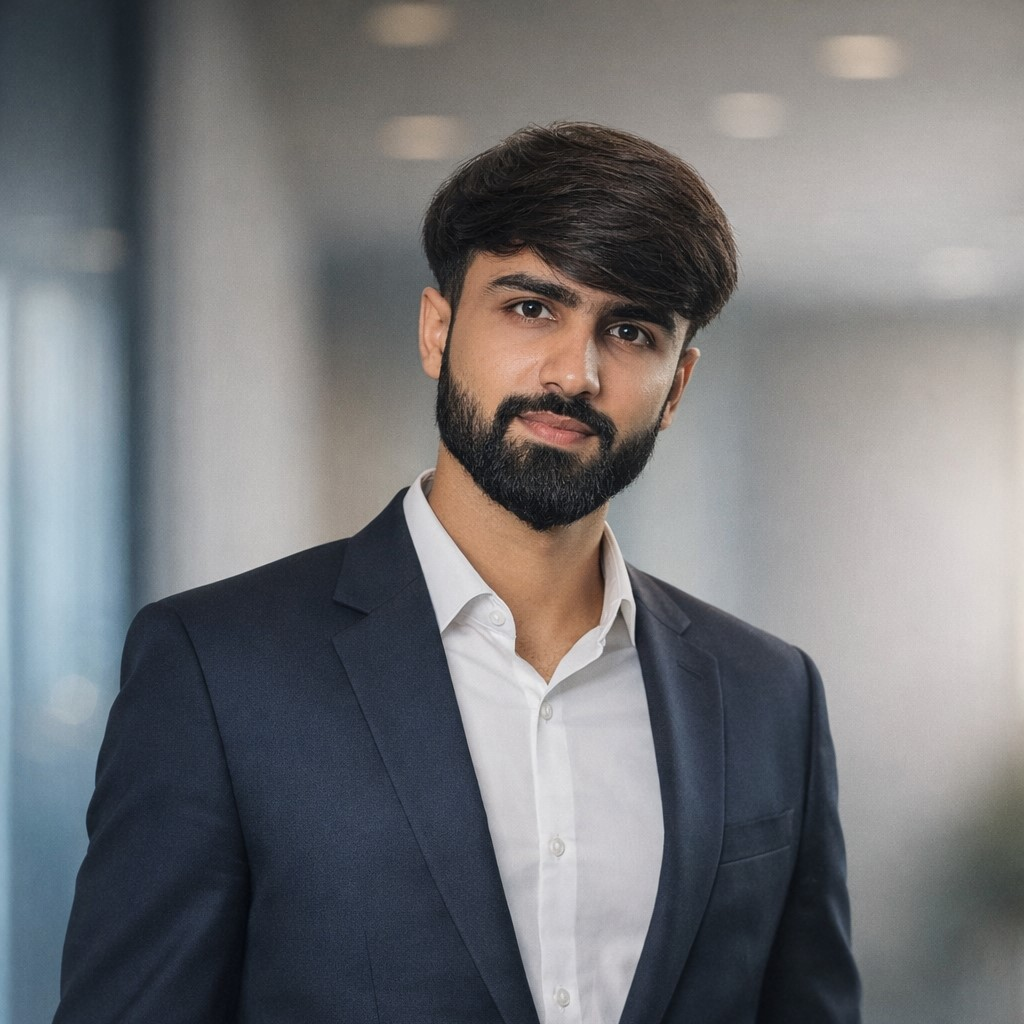
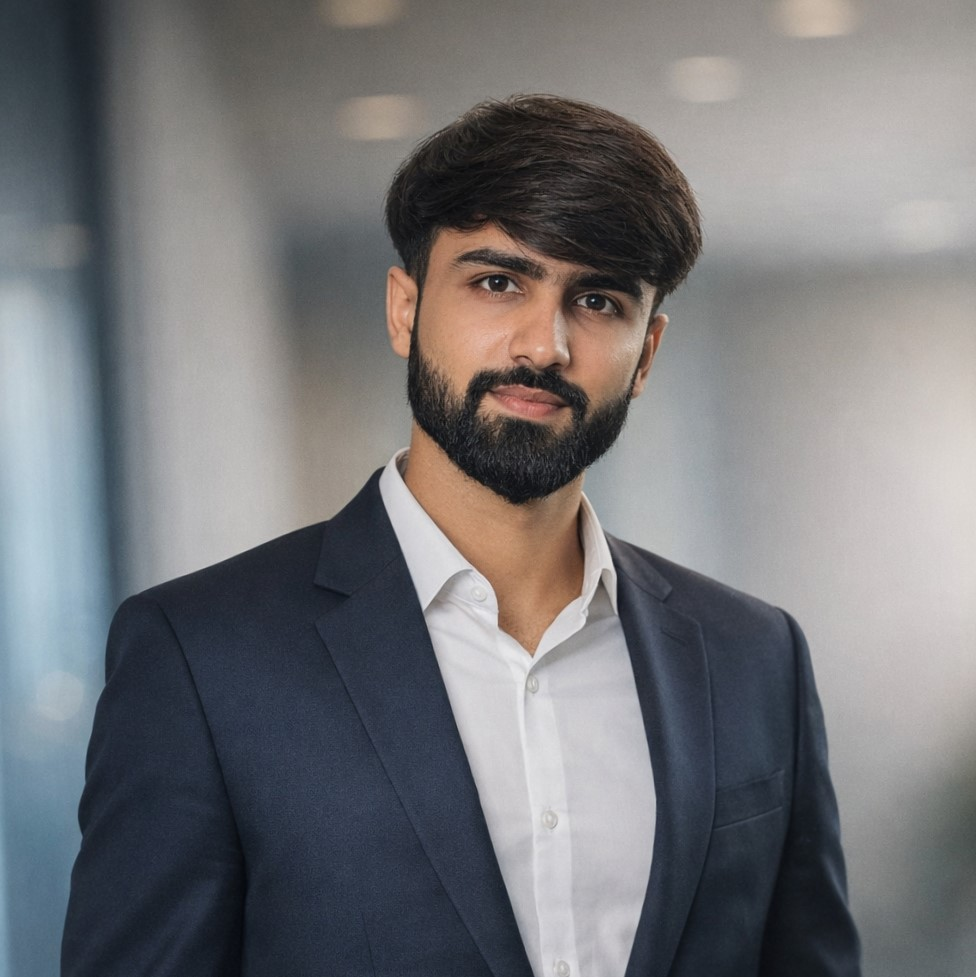
Added app links and updated information

diff --git a/src/pages/ProjectDetail.jsx b/src/pages/ProjectDetail.jsx
@@ -7,7 +7,8 @@ const ProjectDetail = () => {
   const { slug } = useParams()
   const navigate = useNavigate()
   const project = projects.find(p => p.slug === slug)
-
+  const saved = localStorage.getItem('darkMode')
+  const isDarkMode = saved ? JSON.parse(saved) : false
   const [isOpen, setIsOpen] = useState(false)
   const [currentIndex, setCurrentIndex] = useState(0)
 
@@ -242,6 +243,62 @@ const ProjectDetail = () => {
             ))}
           </ul>
         </motion.section>
+
+        {/* App Store Links */}
+        {(project.playStore || project.appStore) && (
+          <motion.section
+            initial={{ opacity: 0, y: 20 }}
+            animate={{ opacity: 1, y: 0 }}
+            transition={{ duration: 0.6, delay: 0.55 }}
+            className="mb-12"
+          >
+            <h3 className="heading-3 mb-4 text-primary-600 dark:text-primary-400">Download App</h3>
+
+            <div className="flex gap-4">
+              {/* Play Store */}
+              {project.playStore && (
+                <a
+                  href={project.playStore}
+                  target="_blank"
+                  rel="noopener noreferrer"
+                  className="flex items-center gap-3 px-5 py-3 rounded-xl bg-gray-100 dark:bg-gray-800 hover:scale-105 transition-transform shadow-md"
+                >
+                  <img
+                    src={
+                      isDarkMode
+                        ? '/Portfolio/android-icon-white.png'
+                        : '/Portfolio/android-icon.png'
+                    }
+                    alt="Android App"
+                    className="w-5 h-5 object-contain"
+                  />
+
+                  <span className="font-medium">Play Store</span>
+                </a>
+              )}
+
+              {/* App Store */}
+              {project.appStore && (
+                <a
+                  href={project.appStore}
+                  target="_blank"
+                  rel="noopener noreferrer"
+                  className="flex items-center gap-3 px-5 py-3 rounded-xl bg-gray-100 dark:bg-gray-800 hover:scale-105 transition-transform shadow-md"
+                >
+                  <img
+                    src={
+                      isDarkMode ? '/Portfolio/apple-icon-white.png' : '/Portfolio/apple-icon.png'
+                    }
+                    alt="iOS App"
+                    className="w-5 h-5 object-contain"
+                  />
+
+                  <span className="font-medium">App Store</span>
+                </a>
+              )}
+            </div>
+          </motion.section>
+        )}
 
         {/* Screenshots */}
         {project?.screenshots && project?.screenshots?.length > 0 && (

diff --git a/src/data/projects.js b/src/data/projects.js
@@ -54,8 +54,8 @@ export const projects = [
     ],
     githubUrl: null,
     liveUrl: null,
-    playStoreLink: 'https://play.google.com/store/apps/developer?id=GNC+India',
-    appStoreLink: 'https://apps.apple.com/in/app/gnc-india/id6473276654',
+    playStore: 'https://play.google.com/store/apps/details?id=in.guardiannewapp',
+    appStore: 'https://apps.apple.com/in/app/gnc-india/id6473276654',
   },
   {
     slug: 'bombay-shirt',
@@ -104,8 +104,8 @@ export const projects = [
     ],
     githubUrl: null,
     liveUrl: null,
-    playStoreLink: 'https://play.google.com/store/apps/details?id=com.coffye.ndufju',
-    appStoreLink: 'https://apps.apple.com/in/app/bombay-shirt-company/id6444273632',
+    playStore: 'https://play.google.com/store/apps/details?id=com.coffye.ndufju',
+    appStore: 'https://apps.apple.com/in/app/bombay-shirt-company/id6444273632',
   },
   {
     slug: 'kalki',
@@ -153,8 +153,8 @@ export const projects = [
     ],
     githubUrl: null,
     liveUrl: null,
-    playStoreLink: 'https://play.google.com/store/apps/details?id=com.shopgate.android.kalkifash',
-    appStoreLink: 'https://apps.apple.com/in/app/kalki-fashion-online-shopping/id950206786',
+    playStore: 'https://play.google.com/store/apps/details?id=com.shopgate.android.kalkifash',
+    appStore: 'https://apps.apple.com/in/app/kalki-fashion-online-shopping/id950206786',
   },
   {
     slug: 'vilvah',

diff --git a/src/components/About.jsx b/src/components/About.jsx
@@ -13,11 +13,11 @@ const About = () => {
         <h2 className="heading-2 mb-8 text-center">About Me</h2>
         <div className="prose prose-lg dark:prose-invert max-w-none">
           <p className="text-lg text-gray-700 dark:text-gray-300 leading-relaxed mb-4">
-            I'm a React Native Developer with over 2.5 years of experience building high-performance
-            mobile apps. I've developed 15+ projects, including well-known brands like GNC,
-            Bellavita, BSC, and RENEE. Skilled in React Native, JavaScript, TypeScript, Redux,
-            Firebase, and MERN, I focus on crafting clean designs, smooth user experiences, and
-            reliable app functionality.
+            I'm a React Native Developer with over 2.5+ years of experience building
+            high-performance mobile apps. I've developed 15+ projects, including well-known brands
+            like GNC, Bellavita, Kalki, and BSC. Skilled in React Native, JavaScript, TypeScript,
+            Redux, Firebase, and MERN, I focus on crafting clean designs, smooth user experiences,
+            and reliable app functionality.
           </p>
           <p className="text-lg text-gray-700 dark:text-gray-300 leading-relaxed mb-4">
             My expertise spans full-stack mobile development, from building responsive UIs with

diff --git a/src/components/Hero.jsx b/src/components/Hero.jsx
@@ -38,7 +38,7 @@ const Hero = () => {
               <img
                 src="/Portfolio/profile-photo.jpg"
                 alt="Ashish Pipaliya"
-                className="w-full h-full object-cover rounded-full"
+                className="w-full h-full object-contain rounded-full"
                 onError={e => {
                   // Fallback to initials if image fails to load
                   e.target.style.display = 'none'
@@ -71,9 +71,9 @@ const Hero = () => {
             variants={itemVariants}
             className="text-lg text-gray-500 dark:text-gray-400 mb-12 max-w-2xl mx-auto"
           >
-            React Native Developer with over 2.5 years of experience building high-performance
+            React Native Developer with over 2.5+ years of experience building high-performance
             mobile apps. I've developed 15+ projects, including well-known brands like GNC,
-            Bellavita, BSC, and RENEE.
+            Bellavita, Kalki, and BSC.
           </motion.p>
 
           <motion.div

diff --git a/src/components/Experience.jsx b/src/components/Experience.jsx
@@ -10,7 +10,7 @@ const Experience = () => {
         'Working on Appmaker.xyz (React-Native based framework) to build and customize mobile applications for multiple large-scale e-commerce brands',
         'Improved UI/UX, performance, and stability across 13+ production mobile apps',
         'Implemented features such as product listing, advanced filters, cart, checkout flows, and payment integrations',
-        'Worked on brands including GNC, Bellavita, BSC, and RENEE',
+        'Worked on brands including GNC, Bellavita, BSC, and Kalki',
         'Integrated third-party services and SDKs such as GoKwik and Zecpay',
         'Collaborated with designers, backend teams, and QA to deliver high-quality releases',
       ],
